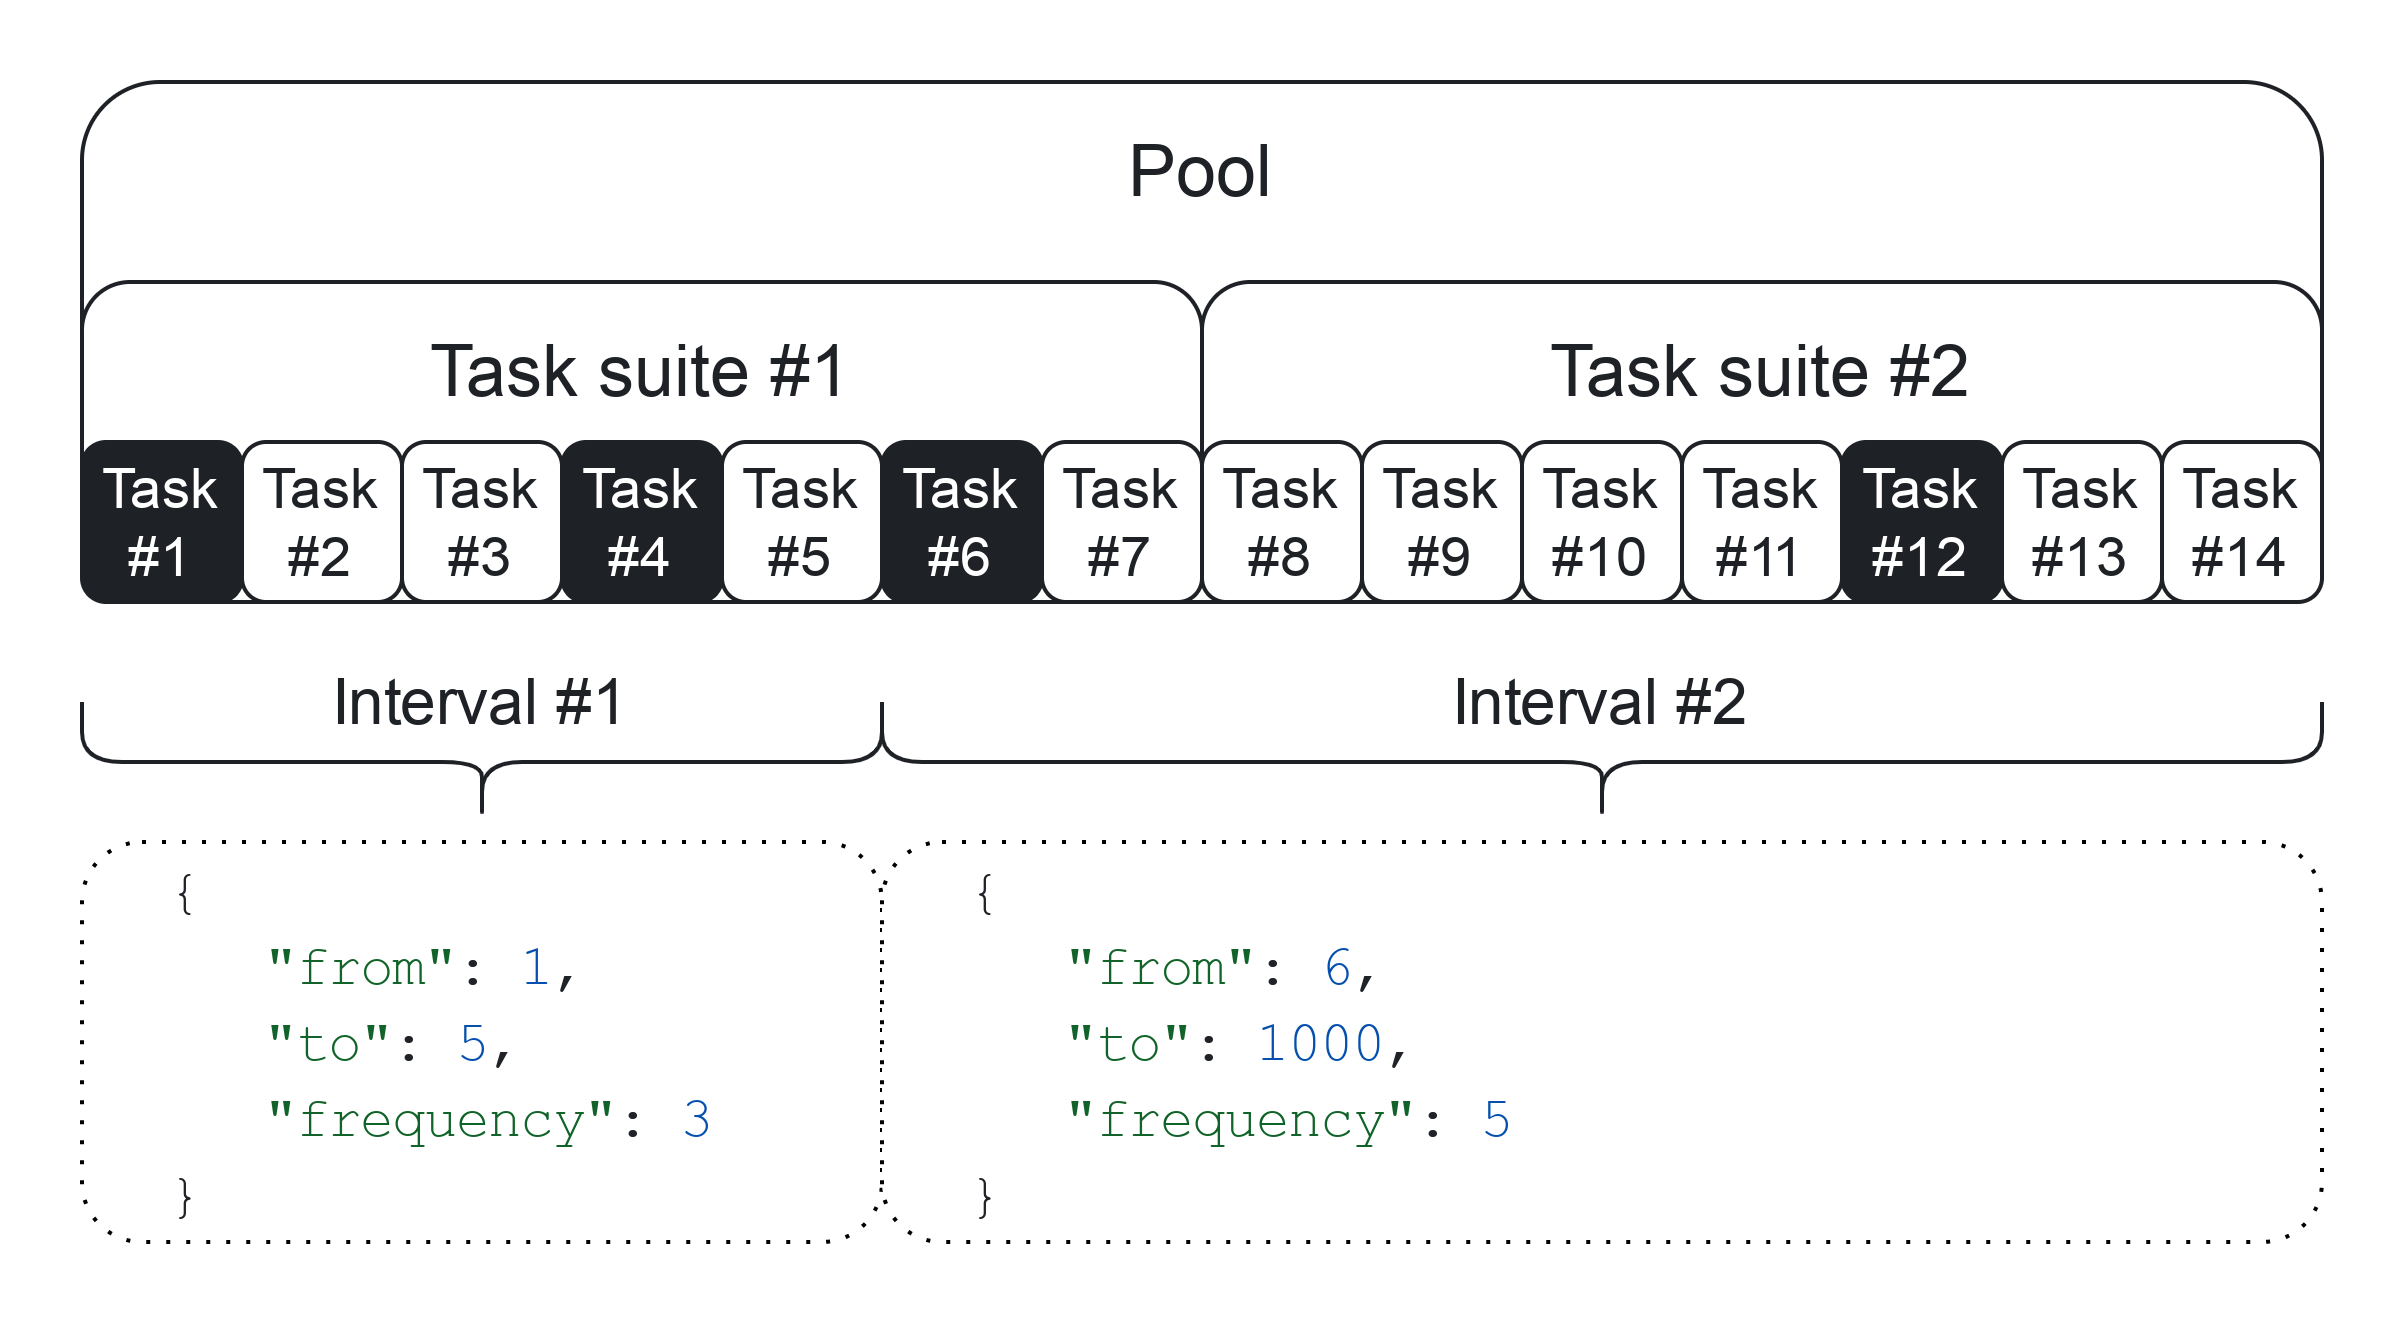
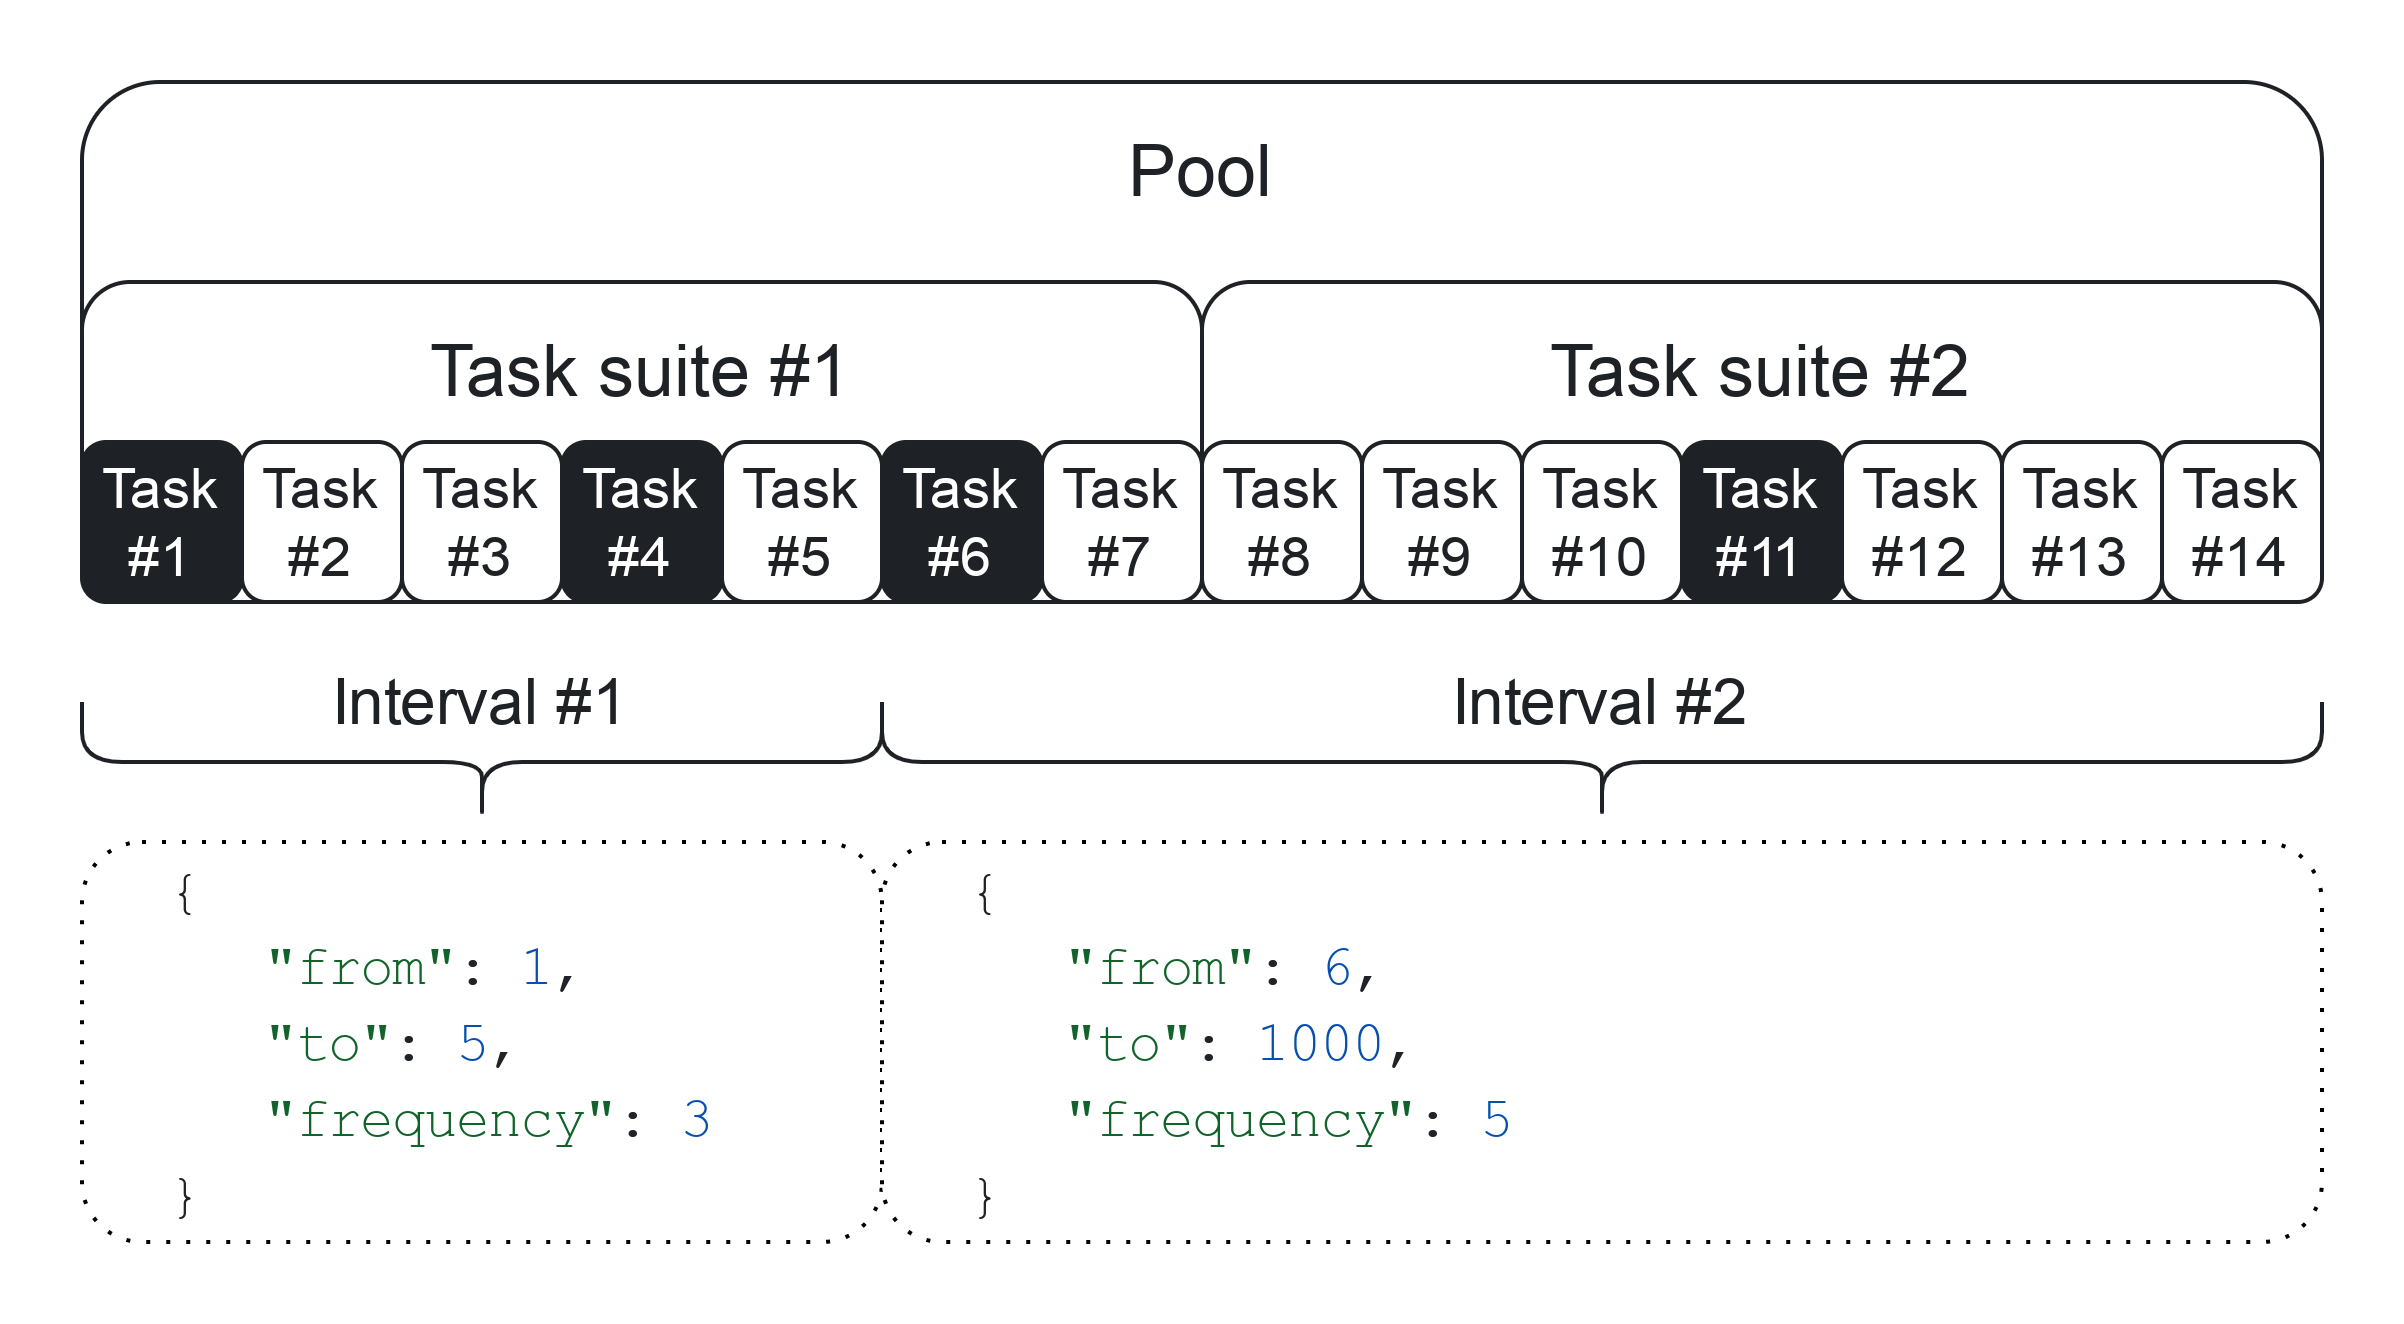
Fixes

Changed region(s): [[0.6864, 0.3097, 0.8423, 0.4645]]

diff --git a/en/api/concepts/intervals.md b/en/api/concepts/intervals.md
@@ -33,11 +33,11 @@ The sample requests below contain the intervals for the general, control, and tr
 
 - General task check intervals
 
-  With the sample request below, the first, fourth, and sixth general tasks in the first task suite and the twelfth general task from the second task suite will be selected for majority vote check.
+  With the sample request below, the first, fourth, and sixth general tasks in the first task suite and the eleventh general task from the second task suite will be selected for majority vote check.
 
   We use the `quality_control.checkpoints_config.real_settings.intervals` parameter to set this scheme.
 
-  ### Sample request
+  #### Sample request
 
   ```bash
   curl -X POST 'https://toloka.dev/api/v1/pools' \
@@ -86,11 +86,11 @@ The sample requests below contain the intervals for the general, control, and tr
 
 - Control task check intervals
 
-  With the sample request below, the first, fourth, and sixth control tasks in the first task suite and the twelfth control task from the second task suite will be selected for majority vote check.
+  With the sample request below, the first, fourth, and sixth control tasks in the first task suite and the eleventh control task from the second task suite will be selected for majority vote check.
 
   We use the `quality_control.checkpoints_config.golden_settings.intervals` parameter to set this scheme.
 
-  ### Sample request
+  #### Sample request
 
   ```bash
   curl -X POST 'https://toloka.dev/api/v1/pools' \
@@ -139,11 +139,11 @@ The sample requests below contain the intervals for the general, control, and tr
 
 - Training task check intervals
 
-  With the sample request below, the first, fourth, and sixth training tasks in the first task suite and the twelfth training task from the second task suite will be selected for majority vote check.
+  With the sample request below, the first, fourth, and sixth training tasks in the first task suite and the eleventh training task from the second task suite will be selected for majority vote check.
 
   We use the `quality_control.checkpoints_config.training_settings.intervals` parameter to set this scheme.
 
-  ### Sample request
+  #### Sample request
 
   ```bash
   curl -X POST 'https://toloka.dev/api/v1/pools' \
@@ -200,11 +200,11 @@ When you use [smart mixing](../../guide/concepts/distribute-tasks-by-pages.md#sm
 
 - Control task distribution intervals
 
-  With the sample request below, the first, fourth, and sixth tasks in the first task suite and the twelfth task from the second task suite will be a **control task**, like in the image above.
+  With the sample request below, the first, fourth, and sixth tasks in the first task suite and the eleventh task from the second task suite will be a **control task**, like in the image above.
 
   We use the `mixer_config.golden_task_distribution_function.intervals` parameter to set this scheme.
 
-  ### Sample request
+  #### Sample request
 
   ```bash
   curl -X POST 'https://toloka.dev/api/v1/pools' \
@@ -246,11 +246,11 @@ When you use [smart mixing](../../guide/concepts/distribute-tasks-by-pages.md#sm
 
 - Training task distribution intervals
 
-  With the sample request below, the first, fourth, and sixth tasks in the first task suite and the twelfth task from the second task suite will be a **training task**, like in the image above.
+  With the sample request below, the first, fourth, and sixth tasks in the first task suite and the eleventh task from the second task suite will be a **training task**, like in the image above.
 
   We use the `mixer_config.training_task_distribution_function.intervals` parameter to set this scheme.
 
-  ### Sample request
+  #### Sample request
 
   ```bash
   curl -X POST 'https://toloka.dev/api/v1/pools' \
